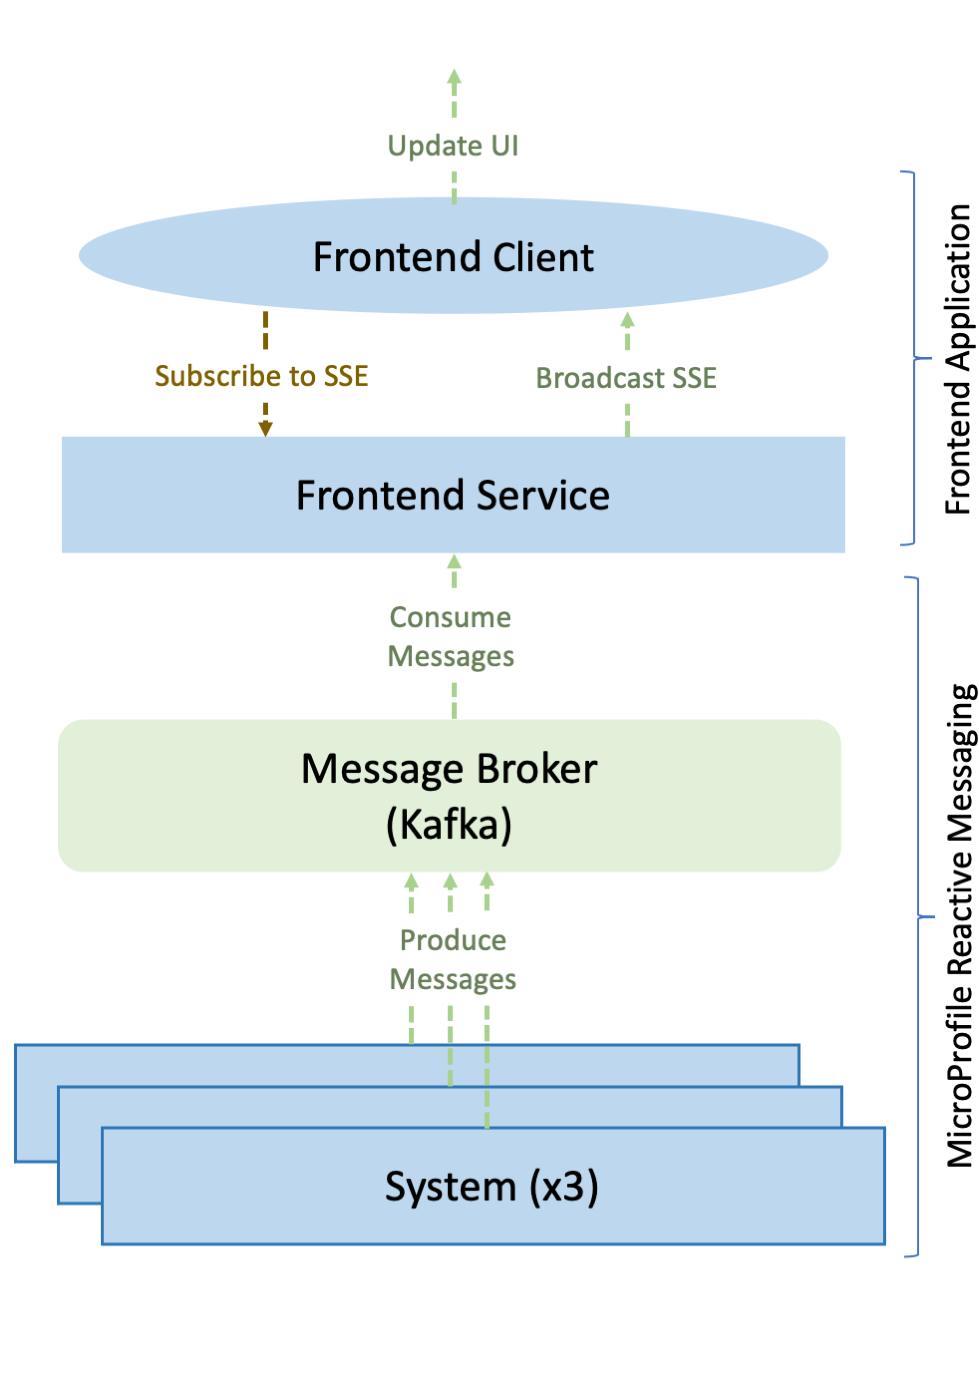
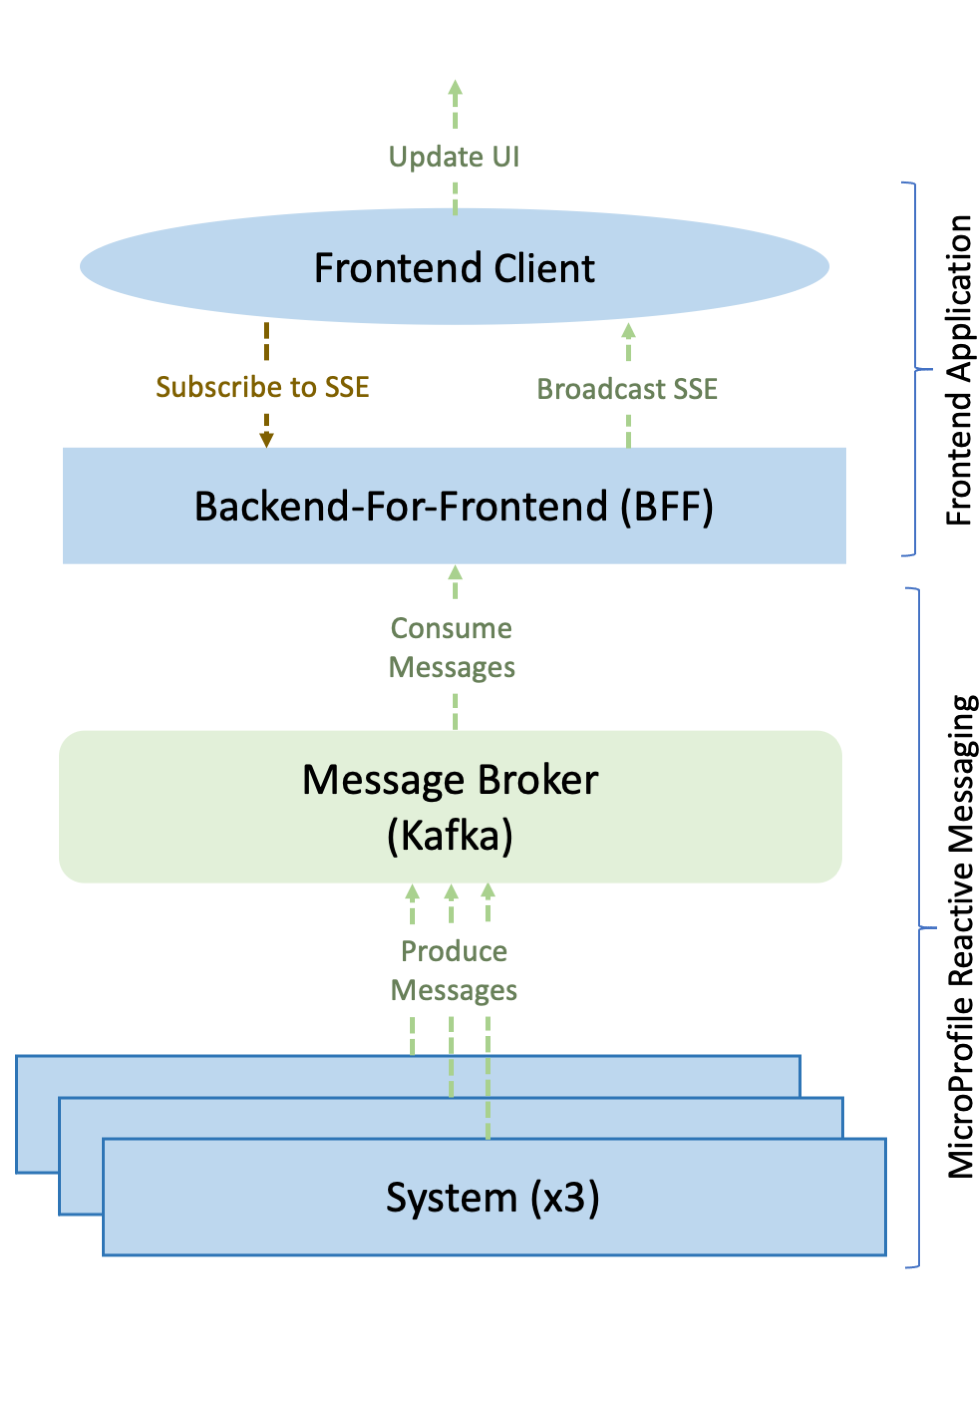
renamed frontend and added to WYL

diff --git a/finish/frontend/src/main/webapp/js/index.js b/finish/frontend/src/main/webapp/js/index.js
@@ -1,7 +1,7 @@
 // tag::initSSE[]
 function initSSE() {
     // tag::eventSource[]
-    var source = new EventSource('/frontend/sse');
+    var source = new EventSource('/bff/sse');
     // end::eventSource[]
     // tag::eventListener[]
     source.addEventListener(

diff --git a/finish/frontend/src/main/java/io/openliberty/guides/bff/BFFResource.java b/finish/frontend/src/main/java/io/openliberty/guides/bff/BFFResource.java
@@ -10,7 +10,7 @@
  *     IBM Corporation - Initial implementation
  *******************************************************************************/
 // end::copyright[]
-package io.openliberty.guides.frontend;
+package io.openliberty.guides.bff;
 
 import io.openliberty.guides.models.*;
 
@@ -31,9 +31,9 @@ import java.util.logging.Logger;
 @ApplicationScoped
 @Path("/sse")
 // tag::frontendResource[]
-public class FrontendResource {
+public class BFFResource {
 
-    private Logger logger = Logger.getLogger(FrontendResource.class.getName());
+    private Logger logger = Logger.getLogger(BFFResource.class.getName());
 
     // tag::sse[]
     private Sse sse;

diff --git a/finish/frontend/src/main/java/io/openliberty/guides/bff/BFFApplication.java b/finish/frontend/src/main/java/io/openliberty/guides/bff/BFFApplication.java
@@ -10,13 +10,13 @@
  *     IBM Corporation - Initial implementation
  *******************************************************************************/
 // end::copyright[]
-package io.openliberty.guides.frontend;
+package io.openliberty.guides.bff;
 
 // JAX-RS
 import javax.ws.rs.ApplicationPath;
 import javax.ws.rs.core.Application;
 
-@ApplicationPath("frontend")
-public class FrontendApplication extends Application {
+@ApplicationPath("bff")
+public class BFFApplication extends Application {
 
 }
